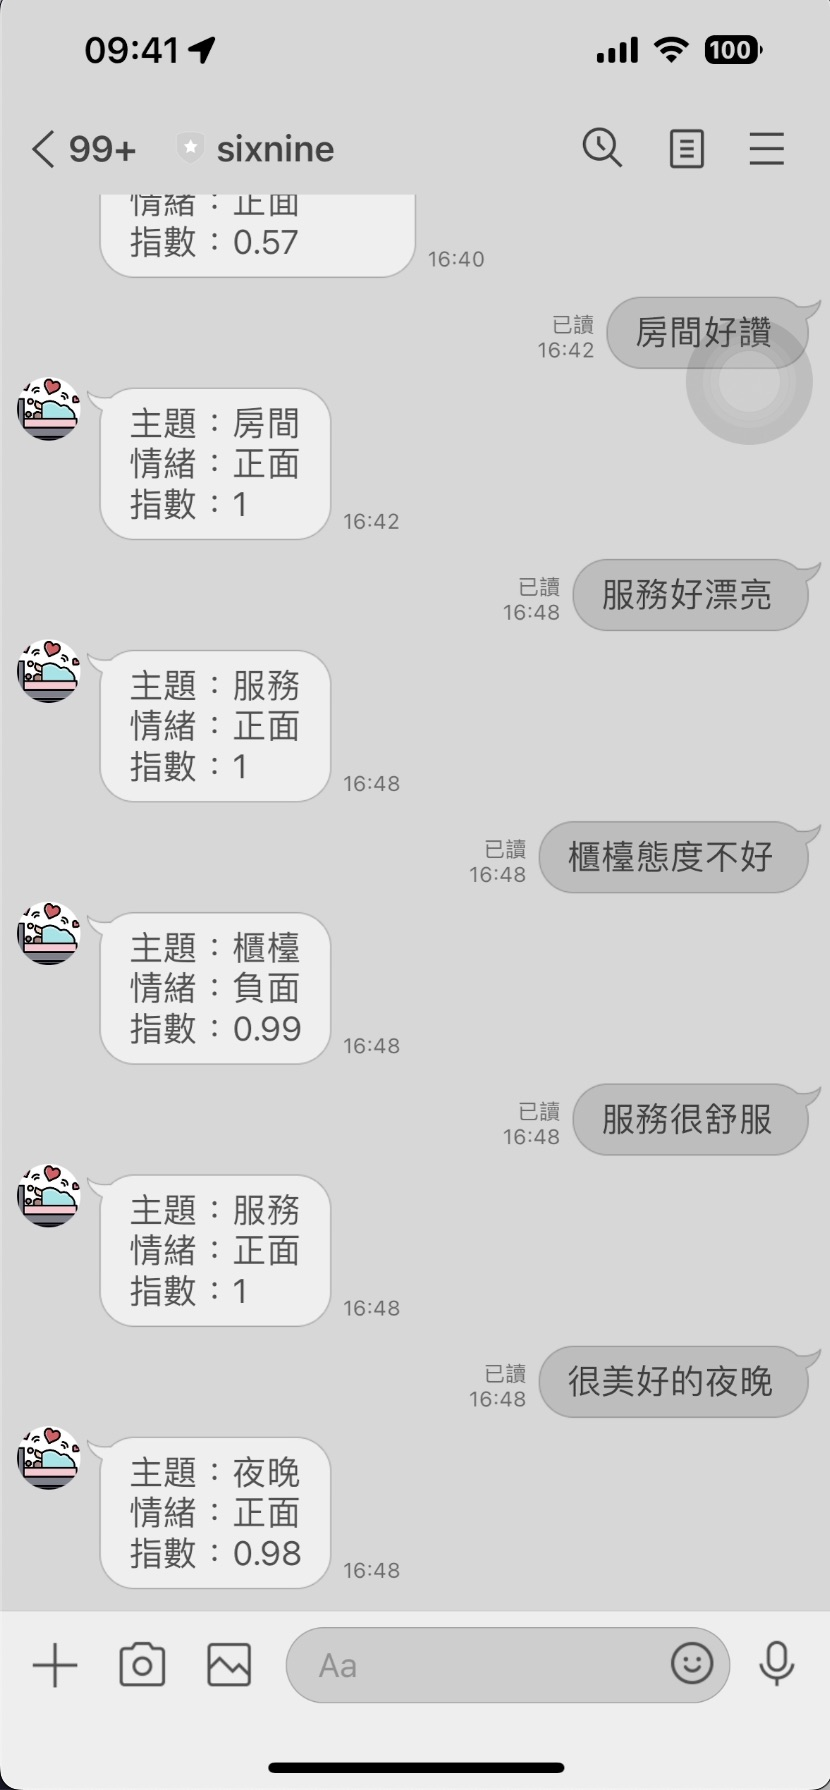
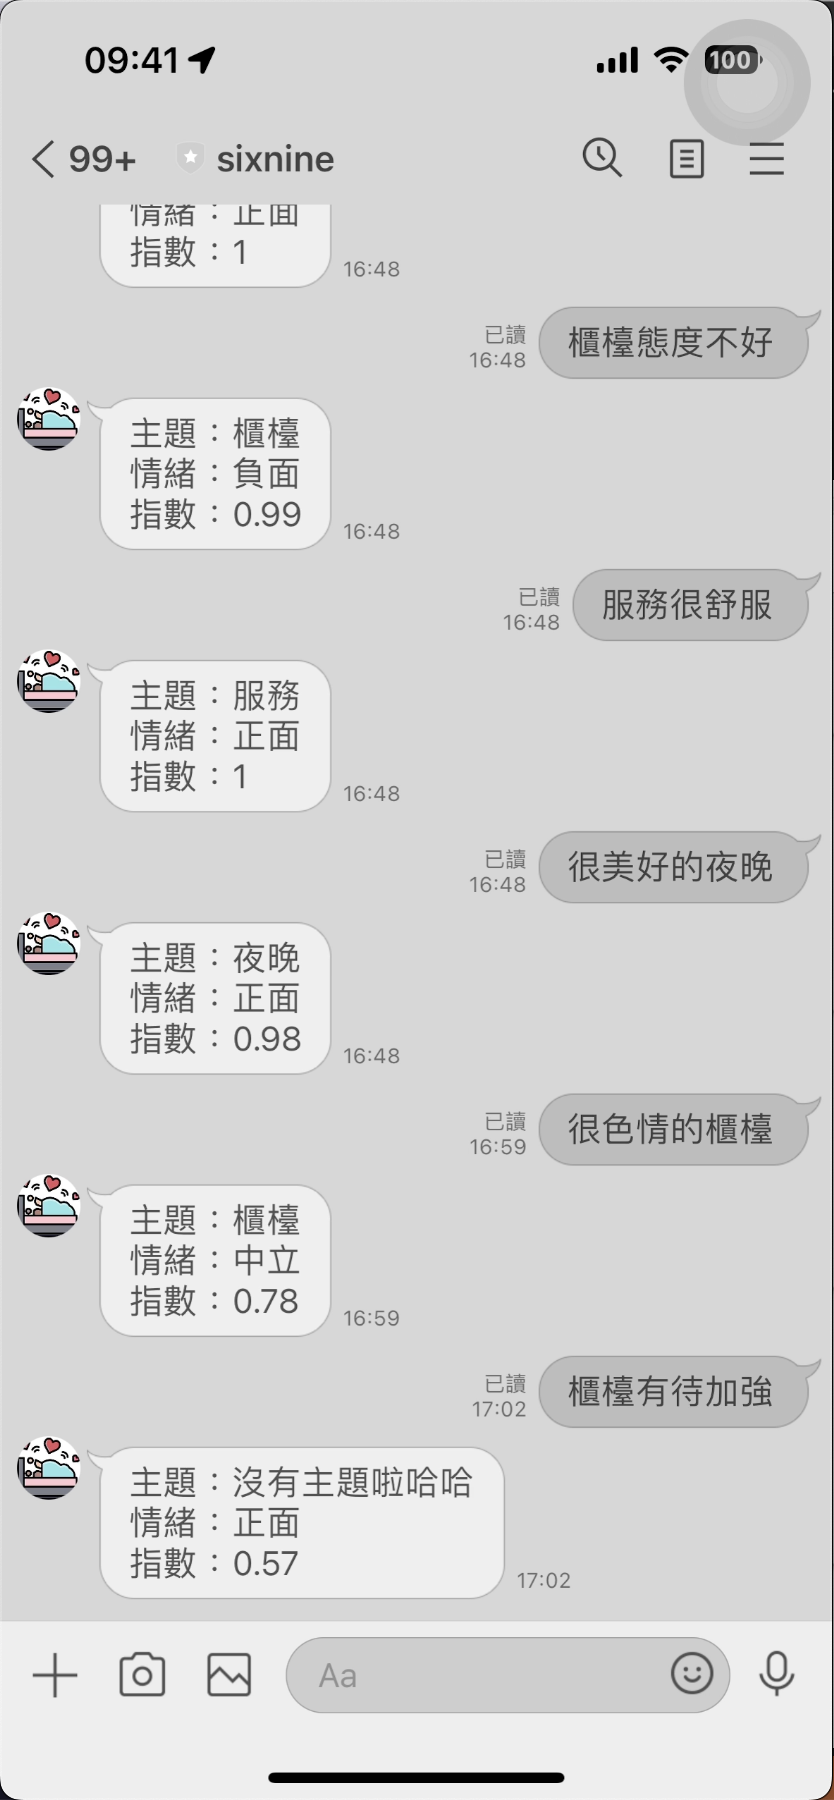
0510

diff --git a/HW4/README.md b/HW4/README.md
@@ -20,8 +20,12 @@
         includeOpinionMining:true
     });`
     <br>
-``const mainOpinions = results[0].sentences[0].opinions[0].target.text;``
+``let mainOpinions = results[0].sentences[0]?.opinions[0]?.target?.text;``
 <br>
+但有可能無法判斷主題，因此要將主題輸出undefined改成沒有主題哈哈：<br>
+``if (mainOpinions === undefined) {
+        mainOpinions = "沒有主題啦哈哈";
+    }``<br>
 並將text改成：<br>
 ```text:`主題：${mainOpinions}\n情緒：${sentimentTextMap[sentimentText]}\n指數：${sentimentScore[highestSentiment]}`}```
 
